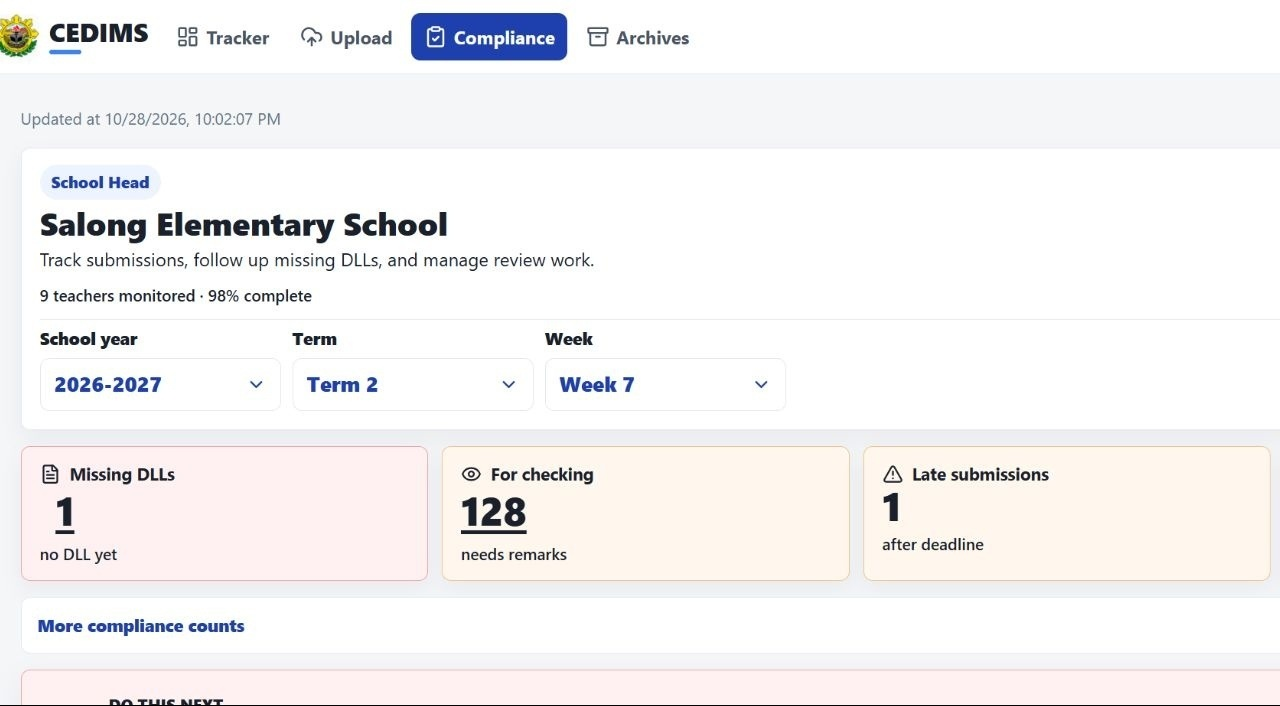
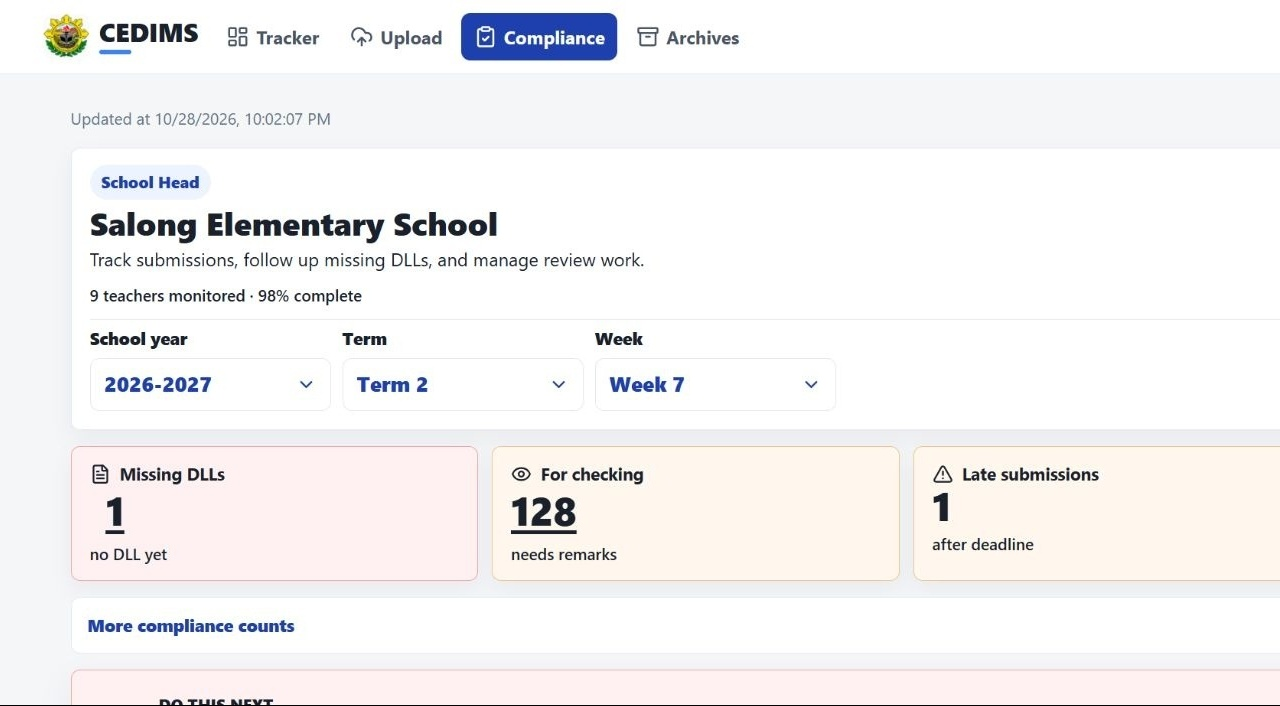
Include latest launch scene and screenshot refinements

diff --git a/cedims-film/src/RebuiltLaunch.tsx b/cedims-film/src/RebuiltLaunch.tsx
@@ -50,11 +50,11 @@ function Reveal(){const f=useCurrentFrame();return <AbsoluteFill style={{fontFam
 
 function LoadShot({part}:{part:0|1|2}){const f=useCurrentFrame();return <AbsoluteFill style={{fontFamily:FONT}}><Backdrop light={part===1}/><Topline step="01 / SET THE TEACHING LOAD" light={part===1}/>{part===0?<><div style={{position:'absolute',left:95,top:250,width:700}}><Title size={105}>Start with<br/><span style={{color:GOLD}}>the assignment.</span></Title><div style={{marginTop:38}}><Label>Teacher → subject → grade</Label></div></div><div style={{position:'absolute',right:75,top:170,width:1000}}><Capture src="loads.mp4" at={4.3} height={710} zoom={[1.1,1.35]} pan={[-60,-20]}/></div></>:part===1?<><div style={{position:'absolute',left:95,top:190,width:1170}}><Capture src="loads.mp4" at={8.2} height={740} zoom={[1.23,1.65]} pan={[-80,-30]}/></div><div style={{position:'absolute',right:82,top:335,width:510}}><Title light size={88}>Choose<br/>the subject<span style={{color:BLUE}}>.</span></Title><div style={{marginTop:40}}><Label>Clear requirements</Label></div></div></>:<><div style={{position:'absolute',left:85,top:170,width:1380}}><Capture src="loads.mp4" at={14.3} height={750} zoom={[1.08,1.2]} pan={[-30,-30]}/></div><div style={{position:'absolute',right:100,top:280,width:480,height:370,borderRadius:24,background:INK,padding:38,boxShadow:'0 30px 70px #06132999',opacity:rise(f)}}><Eyebrow>READY FOR THE WEEK</Eyebrow><div style={{fontSize:72,fontWeight:900,color:WHITE,marginTop:20}}>One clear<br/><span style={{color:GOLD}}>starting point.</span></div></div></>}<BottomRail light={part===1}/></AbsoluteFill>}
 
-function UploadShot({part}:{part:0|1|2}){return <AbsoluteFill style={{fontFamily:FONT}}><Backdrop light={part===1}/><Topline step="02 / UPLOAD A LESSON DOCUMENT" light={part===1}/>{part===0?<><div style={{position:'absolute',left:95,top:250,width:630}}><Title size={99}>Choose<br/>the file<span style={{color:GOLD}}>.</span></Title><div style={{marginTop:38,fontSize:37,color:MUTED}}>A familiar action. One clear destination.</div></div><div style={{position:'absolute',right:95,top:195,width:1050}}><Capture src="upload.mp4" at={0} height={675} zoom={[1.06,1.28]} pan={[-50,-5]}/></div></>:part===1?<><div style={{position:'absolute',left:85,top:184,width:1150}}><Capture src="upload.mp4" at={14.7} height={750} zoom={[1.05,1.15]} pan={[-25,-18]}/></div><div style={{position:'absolute',right:85,top:300,width:510}}><Eyebrow light>THE DETAILS APPEAR</Eyebrow><Title light size={80}>Detect.<br/>Check.<br/><span style={{color:BLUE}}>Confirm.</span></Title></div></>:<><div style={{position:'absolute',left:90,top:250,width:605}}><Title size={94}>Submit<br/>with confidence<span style={{color:GOLD}}>.</span></Title><div style={{marginTop:37}}><Label>File + term + week</Label></div></div><div style={{position:'absolute',right:80,top:195,width:1100}}><Capture src="upload.mp4" at={17.4} height={690} zoom={[1.13,1.42]} pan={[-55,-8]}/></div></>}<BottomRail light={part===1}/></AbsoluteFill>}
+function UploadShot({part}:{part:0|1|2}){return <AbsoluteFill style={{fontFamily:FONT}}><Backdrop light={part===1}/><Topline step="02 / UPLOAD A LESSON DOCUMENT" light={part===1}/>{part===0?<><div style={{position:'absolute',left:95,top:250,width:630}}><Title size={99}>Choose<br/>the file<span style={{color:GOLD}}>.</span></Title><div style={{marginTop:38,fontSize:37,color:MUTED}}>A familiar action. One clear destination.</div></div><div style={{position:'absolute',right:95,top:195,width:1050}}><Capture src="upload.mp4" at={0} height={675} zoom={[1.06,1.28]} pan={[-50,-5]}/></div></>:part===1?<><div style={{position:'absolute',left:85,top:184,width:1150}}><Capture src="upload.mp4" at={14.7} height={750} zoom={[1.05,1.15]} pan={[150,-18]}/></div><div style={{position:'absolute',right:85,top:300,width:510}}><Eyebrow light>THE DETAILS APPEAR</Eyebrow><Title light size={80}>Detect.<br/>Check.<br/><span style={{color:BLUE}}>Confirm.</span></Title></div></>:<><div style={{position:'absolute',left:90,top:250,width:605}}><Title size={94}>Submit<br/>with confidence<span style={{color:GOLD}}>.</span></Title><div style={{marginTop:37}}><Label>File + term + week</Label></div></div><div style={{position:'absolute',right:80,top:195,width:1100}}><Capture src="upload.mp4" at={17.4} height={690} zoom={[1.13,1.42]} pan={[-55,-8]}/></div></>}<BottomRail light={part===1}/></AbsoluteFill>}
 
 function ArchiveShot({part}:{part:0|1}){const f=useCurrentFrame();return <AbsoluteFill style={{fontFamily:FONT}}><Backdrop light={part===1}/><Topline step="03 / THE RECORD IS SAVED" light={part===1}/>{part===0?<><div style={{position:'absolute',left:110,top:240,width:690}}><Title size={99}>One upload.<br/><span style={{color:GOLD}}>A real record.</span></Title><div style={{marginTop:37,fontSize:39,color:MUTED}}>Status, date, and verification stay connected.</div></div><div style={{position:'absolute',right:120,top:170,width:980}}><Capture src="upload.mp4" at={24.8} height={735} zoom={[1.16,1.42]} pan={[0,-20]}/></div></>:<><div style={{position:'absolute',left:80,top:180,width:1500}}><Capture src="district-archive-root-safe.jpg" image height={700} zoom={[1.12,1.29]} pan={[-20,-42]}/></div><div style={{position:'absolute',right:90,top:535,width:590,padding:34,background:INK,borderRadius:25,boxShadow:'0 25px 60px #09203d66',opacity:rise(f,10)}}><Eyebrow>SEARCHABLE ARCHIVE</Eyebrow><div style={{fontSize:56,fontWeight:900,color:WHITE,marginTop:12}}>Find the file.<br/><span style={{color:GOLD}}>See its status.</span></div></div></>}<BottomRail light={part===1}/></AbsoluteFill>}
 
-function ReviewShot({part}:{part:0|1|2}){return <AbsoluteFill style={{fontFamily:FONT}}><Backdrop light={part===1}/><Topline step="04 / SUPERVISOR REVIEW" light={part===1}/>{part===0?<><div style={{position:'absolute',left:95,top:270,width:630}}><Title size={96}>Open the<br/><span style={{color:GOLD}}>actual file.</span></Title><div style={{marginTop:32,fontSize:34,color:MUTED}}>Review happens with the lesson plan in view.</div></div><div style={{position:'absolute',right:80,top:170,width:1120}}><Capture src="review.mp4" at={15} height={760} zoom={[1.15,1.3]} pan={[-60,45]} maskBottom={120}/></div></>:part===1?<><div style={{position:'absolute',left:75,top:160,width:1230}}><Capture src="review.mp4" at={22.5} height={770} zoom={[1.08,1.2]} pan={[-125,65]} maskBottom={120}/></div><div style={{position:'absolute',right:70,top:260,width:500}}><Title light size={85}>Remarks<br/>stay with<br/><span style={{color:BLUE}}>the record.</span></Title></div></>:<><div style={{position:'absolute',left:95,top:255,width:710}}><Eyebrow>REVIEW COMPLETE</Eyebrow><Title size={92}>A clear<br/><span style={{color:GOLD}}>checked status.</span></Title><div style={{marginTop:37}}><Label>Feedback is visible</Label></div></div><div style={{position:'absolute',right:100,top:190,width:1050}}><Capture src="review.mp4" at={30.5} height={700} zoom={[1.12,1.28]} pan={[-45,40]} maskBottom={110}/></div></>}<BottomRail light={part===1}/></AbsoluteFill>}
+function ReviewShot({part}:{part:0|1|2}){return <AbsoluteFill style={{fontFamily:FONT}}><Backdrop light={part===1}/><Topline step="04 / SUPERVISOR REVIEW" light={part===1}/>{part===0?<><div style={{position:'absolute',left:95,top:270,width:630}}><Title size={96}>Open the<br/><span style={{color:GOLD}}>actual file.</span></Title><div style={{marginTop:32,fontSize:34,color:MUTED}}>Review happens with the lesson plan in view.</div></div><div style={{position:'absolute',right:80,top:170,width:1120}}><Capture src="review.mp4" at={15} height={760} zoom={[1.15,1.3]} pan={[-60,45]} maskBottom={120}/></div></>:part===1?<><div style={{position:'absolute',left:75,top:160,width:1230}}><Capture src="review.mp4" at={22.5} height={770} zoom={[1.08,1.2]} pan={[-220,65]} maskBottom={120}/></div><div style={{position:'absolute',right:70,top:260,width:500}}><Title light size={85}>Remarks<br/>stay with<br/><span style={{color:BLUE}}>the record.</span></Title></div></>:<><div style={{position:'absolute',left:95,top:255,width:710}}><Eyebrow>REVIEW COMPLETE</Eyebrow><Title size={92}>A clear<br/><span style={{color:GOLD}}>checked status.</span></Title><div style={{marginTop:37}}><Label>Feedback is visible</Label></div></div><div style={{position:'absolute',right:100,top:190,width:1050}}><Capture src="review.mp4" at={30.5} height={700} zoom={[1.12,1.28]} pan={[-45,40]} maskBottom={110}/></div></>}<BottomRail light={part===1}/></AbsoluteFill>}
 
 function FeedbackShot({part}:{part:0|1}){const f=useCurrentFrame();return <AbsoluteFill style={{fontFamily:FONT}}><Backdrop light={part===1}/><Topline step="05 / THE RECORD STAYS TRACEABLE" light={part===1}/>{part===0?<><div style={{position:'absolute',left:100,top:270,width:850}}><Title size={105}>No guessing<br/>where feedback<br/><span style={{color:GOLD}}>went.</span></Title></div><div style={{position:'absolute',right:110,top:300,width:640,height:340,background:WHITE,borderRadius:28,padding:45,boxShadow:'0 35px 80px #0008',opacity:rise(f)}}><Eyebrow light>LESSON DOCUMENT</Eyebrow><div style={{marginTop:27,fontSize:58,fontWeight:900,color:INK}}>Review complete</div><div style={{marginTop:28,display:'flex',alignItems:'center',gap:18,fontSize:38,color:'#147652',fontWeight:900}}><span style={{fontSize:60}}>✓</span> CHECKED</div></div></>:<><div style={{position:'absolute',left:95,top:250,width:780}}><Title light size={91}>The file.<br/>The remark.<br/><span style={{color:BLUE}}>One history.</span></Title></div><div style={{position:'absolute',right:90,top:170,width:980}}><Capture src="review.mp4" at={34} height={720} zoom={[1.14,1.28]} pan={[-50,50]} maskBottom={110}/></div></>}<BottomRail light={part===1}/></AbsoluteFill>}
 
@@ -95,4 +95,13 @@ export const RebuiltLaunch:React.FC=()=>{const {fps}=useVideoConfig();return <Ab
  <Sequence from={90*fps} durationInFrames={5*fps} premountFor={fps}><DistrictShot part={0}/></Sequence>
  <Sequence from={95*fps} durationInFrames={4*fps} premountFor={fps}><DistrictShot part={1}/></Sequence>
  <Sequence from={99*fps} durationInFrames={5*fps} premountFor={fps}><DistrictShot part={2}/></Sequence>
- <Sequence from={104*fps} durationInFrames={4*fps} premountFor={fps}><MobileShot part
+ <Sequence from={104*fps} durationInFrames={4*fps} premountFor={fps}><MobileShot part={0}/></Sequence>
+ <Sequence from={108*fps} durationInFrames={4*fps} premountFor={fps}><MobileShot part={1}/></Sequence>
+ <Sequence from={112*fps} durationInFrames={3*fps} premountFor={fps}><MobileShot part={2}/></Sequence>
+ <Sequence from={115*fps} durationInFrames={11*fps} premountFor={fps}><Ending/></Sequence>
+ <Sequence from={16*fps} durationInFrames={15} premountFor={fps}><Sweep/></Sequence>
+ <Sequence from={33*fps} durationInFrames={15} premountFor={fps}><Sweep gold/></Sequence>
+ <Sequence from={55*fps} durationInFrames={15} premountFor={fps}><Sweep/></Sequence>
+ <Sequence from={78*fps} durationInFrames={15} premountFor={fps}><Sweep gold/></Sequence>
+ <Sequence from={104*fps} durationInFrames={15} premountFor={fps}><Sweep/></Sequence>
+ </AbsoluteFill>};

diff --git a/cedims-film/make-focus-assets.py b/cedims-film/make-focus-assets.py
@@ -3,6 +3,6 @@ from PIL import Image
 
 root = Path(__file__).parent
 src = root / 'public' / 'launch'
-Image.open(src / 'school-overview-light-safe.jpg').crop((240, 0, 1520, 706)).save(src / 'school-focus-safe.jpg', quality=95)
+Image.open(src / 'school-overview-light-safe.jpg').crop((190, 0, 1470, 706)).save(src / 'school-focus-safe.jpg', quality=95)
 Image.open(src / 'district-trends-light-safe.jpg').crop((260, 0, 1450, 706)).save(src / 'district-priority-safe.jpg', quality=95)
 Image.open(root / 'out' / 'mobile-55-debug.png').save(src / 'mobile-scanner.png')
